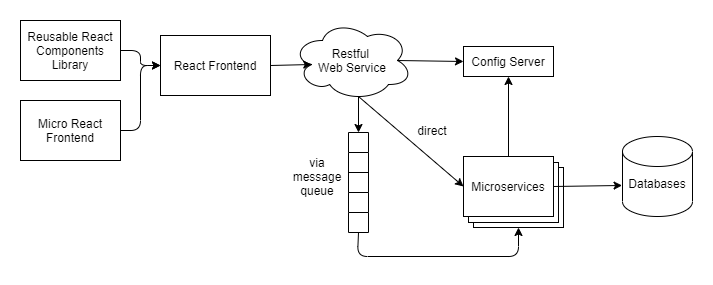
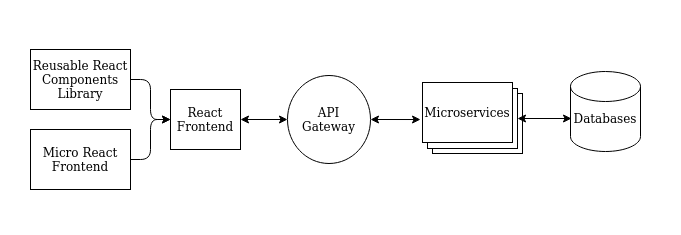
update documentation and update webpack dev proxy for api

diff --git a/react-frontend/config/webpack.dev.js b/react-frontend/config/webpack.dev.js
@@ -1,23 +1,9 @@
 const ReactRefreshWebpackPlugin = require('@pmmmwh/react-refresh-webpack-plugin');
 const ForkTsCheckerWebpackPlugin = require('fork-ts-checker-webpack-plugin');
 const { merge } = require("webpack-merge");
-const app = require('./wp-config');
 const util = require('./wp-config-util');
 
 const buildDevelopmentConfig = baseConfig => {
-    const devServerPort = app.devServer.port;
-    const devServerProxyDetails = app.devServer.proxy;
-    const devServerProxy = {};
-    const devServerPublicPath = app.devServer.publicPath;
-    console.log(devServerPublicPath);
-
-    /*
-    devServerProxy[app.devServer.contextPath + devServerProxyDetails.url] = {
-        target: devServerProxyDetails.target,
-        secure: devServerProxyDetails.secure,
-        prependPath: devServerProxyDetails.prependPath
-    };*/
-
     return merge([
         baseConfig,
         {
@@ -31,13 +17,19 @@ const buildDevelopmentConfig = baseConfig => {
             devServer: {
                 historyApiFallback: true,
                 stats: 'errors-only',
-                // turn on hot module replacement (HMR)
-                hot: true,
+                hot: true, // turn on hot module replacement (HMR)
                 hotOnly: false,
                 open: true,
-                port: devServerPort,
-                //proxy: devServerProxy,
-                //publicPath: devServerPublicPath,
+                port: 8080,
+                proxy: {
+                    '/rest/*': {     // route all rest api call to api-gateway
+                        target: 'http://localhost:9090', // path of the targeted external server that house the external api
+                        pathRewrite: {'^/rest' : ''},
+                        secure: false,
+                        prependPath: false,
+                    }
+                },
+                publicPath: '/',
                 overlay: {
                     errors: true,
                     warnings: true

diff --git a/react-frontend/config/wp-config.js b/react-frontend/config/wp-config.js
@@ -9,16 +9,4 @@ module.exports = {
         build: path.join(__dirname, '../build'), // dist or build output path
         assets: path.join(__dirname, '../assets') // assets path
     },
-    devServer: {
-        // rapid development related / setting for webpack dev server (link between webpack and embedded tomcat in springboot)
-        port: 8080,
-        contextPath: '/frontend',
-        proxy: {
-            url: '/rest/*', // path to redirect request to all external api e.g. restful api call
-            target: 'http://localhost:9090/', // path of the targeted external server that house the external api
-            secure: false,
-            prependPath: false,
-        },
-        publicPath: 'http://0.0.0.0:8080/frontend'
-    }
 };

diff --git a/web-api-gateway/src/index.js b/web-api-gateway/src/index.js
@@ -3,12 +3,13 @@ const bodyParser = require('body-parser');
 const helmet = require('helmet');
 const router = require('./router');
 
-const PORT = 4000;
+const PORT = 9090;
 const app = express();
 
 app.use(bodyParser.json());
 app.use(bodyParser.urlencoded({ extended: true }));
 app.use(helmet());
+app.set('etag', false); // temporary solution to prevent HTTP status code 304
 
 app.get('/', (req, res) => {
     res.send("API Gateway");

diff --git a/ws-fake-api/index.js b/ws-fake-api/index.js
@@ -12,7 +12,7 @@ app.get('/fakeapi', (req, res, next) => {
 app.listen(PORT, () => {
     axios({
         method: 'POST',
-        url: 'http://localhost:4000/register',
+        url: 'http://localhost:9090/register',
         headers: {'Content-Type': 'application/json'},
         data: {
             apiName: 'registryTest',

diff --git a/web-api-gateway/src/router.js b/web-api-gateway/src/router.js
@@ -16,7 +16,7 @@ router.all('/:apiName/:path', (req, res) => {
         }).then(apiResponse => {
             res.send(apiResponse.data);
         }).catch(error => {
-            res.status(503).send(error);
+            res.send(error);
         });
     } else {
         res.status(404).send("API does not exist!");
